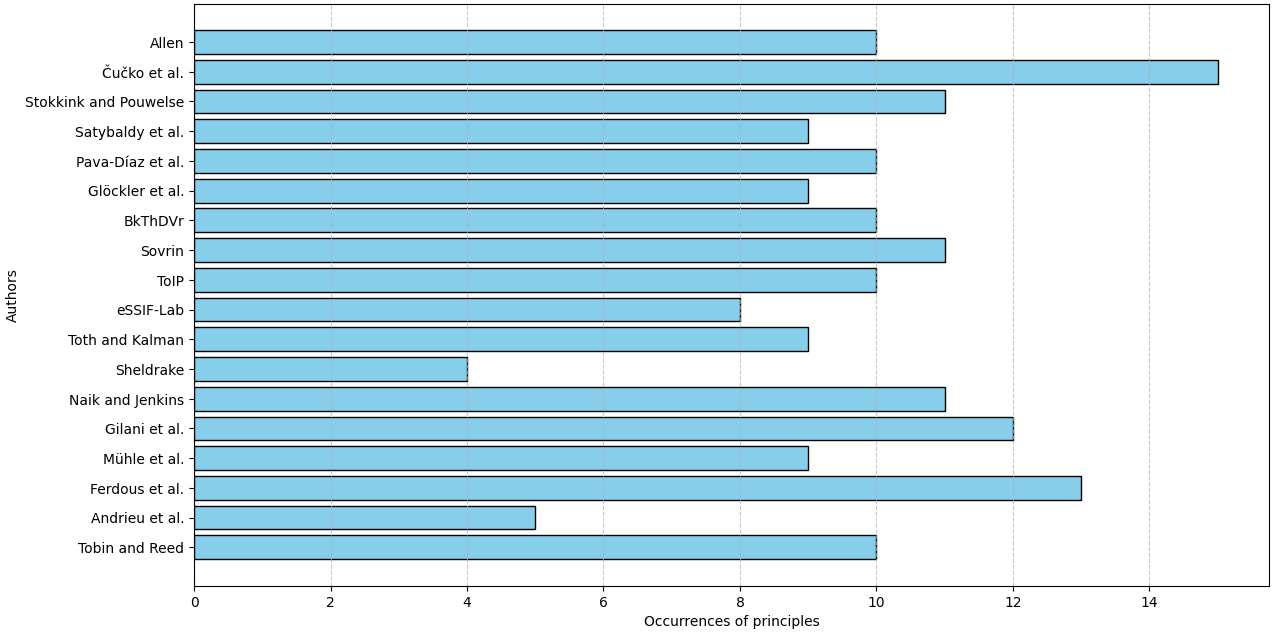
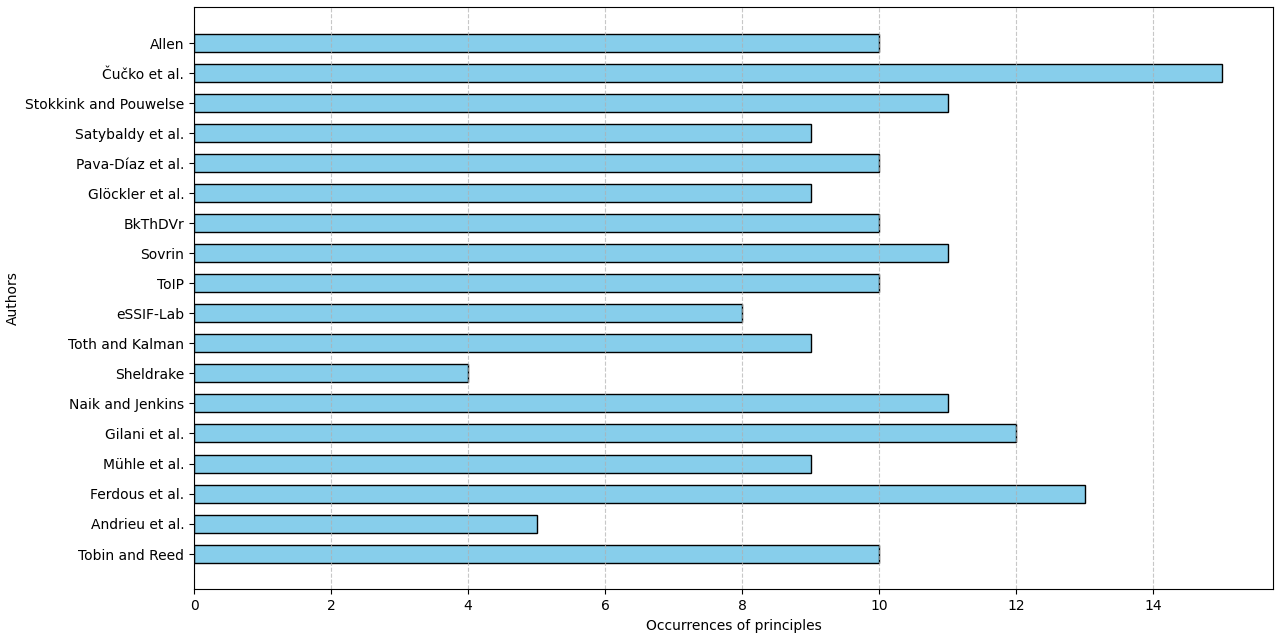
.

diff --git a/definition/program/recording_of_principles/Occurrences_principles.py b/definition/program/recording_of_principles/Occurrences_principles.py
@@ -27,7 +27,7 @@ dati = np.array([
 sum_values = np.sum(dati[::-1], axis=1)
 
 plt.figure(figsize=(10, 6))
-bars = plt.barh(range(len(autori)), sum_values, color='skyblue', edgecolor="black")
+bars = plt.barh(range(len(autori)), sum_values, color='skyblue', edgecolor="black", height=0.6)
 plt.xlabel("Occurrences of principles")
 plt.ylabel("Authors")
 plt.title("")

diff --git a/definition/Definition.md b/definition/Definition.md
@@ -85,28 +85,28 @@ The merging process has collapsed some of the principles naming together and shr
 
 ### 1.3.3 Selection
 
-The chart in Figure 3 illustrates the frequency of citation for different principles across the 18 authors, distinguishing between *Allen Principles* (in blue) and *Extending Principles* (in yellow). The *Allen Principles* show a significantly higher occurrence, indicating a strong foundation in existing literature, maybe based on the fact that those principles have been around longer. In contrast, the *Extending Principles* appear less frequently; for example, 19 out of the 24 extending principles, were cited by fewer than five authors. The analysis suggests that while core principles remain dominant, emerging principles contribute to the evolving discourse in the field.
+The chart in Figure 3 illustrates the frequency of citation for the 34 principles across the studies that we have considered, distinguishing between *Allen Principles* (in blue) and *Extending Principles* (in yellow). The x-axis lists the principles, while the y-axis represents their frequency of occurrence. The *Allen Principles*, such as "Existence and Representation," "Ownership and Control," "Transparency," and "Interoperability, show a significantly higher occurrence, indicating a strong foundation in existing literature, maybe based on the fact that those principles have been around for longer. In contrast, the *Extending Principles*, including "Cost," "Scalable," "Trust," and "Verifiability and Authenticity," show greater variability; for example, 19 out of the 24 extending principles, were cited by fewer than five authors. The analysis suggests the centrality of the Allen Principles which remain dominant, while emerging principles contribute to the evolving discourse in the field.
 
 ![Principles selection](/definition/images/principles_selection/Principles_selection.png)
 *Figure 3: The number of citations per principle across the 18 authors.*
 
-The average value of citation occurrences is slightly above 25%, where we placed a red threshold line as a reference for comparison. We used this finding to extract a subset of principles for SSI; namely, we selected principles cited by at least the 25% of the authors. This heuristic of 25% is a typified strategy that aids in making decisions efficiently by relying on practical rules.[^heuristic] Thus, the final list includes principles that surpass the red threshold in Figure 3. The final list is reported in [Table 3](https://cristianlepore.github.io/Self-Sovereign-Identity/definition/tables/principles_semplification/Principles_semplification1.html), and accounts for 15 principles - 10 from Allen plus five extending principles. Note that the merging process has collapsed some of their names within the same cell, and we consider it for future analysis with charts.
+The average value of citation occurrences is slightly above 25%, where we placed a red threshold line as a reference for comparison. We used this threashold line to extract a subset of principles for SSI; namely, we selected principles cited by at least the 25% of the authors. This heuristic of 25% is a typified strategy that aids in making decisions efficiently by relying on practical rules.[^heuristic] Thus, the final list includes principles that surpass the red threshold in Figure 3. The final list is reported in [Table 3](https://cristianlepore.github.io/Self-Sovereign-Identity/definition/tables/principles_semplification/Principles_semplification1.html), and accounts for 15 principles - 10 from Allen plus five extending principles. Note that the merging process has collapsed some of the original names within the same cell.
 
-[Click to view the table 3.](https://cristianlepore.github.io/Self-Sovereign-Identity/definition/tables/principles_semplification/Principles_semplification1.html) *Our final list of properties and their namings.*
+[Click to view the table 3.](https://cristianlepore.github.io/Self-Sovereign-Identity/definition/tables/principles_semplification/Principles_semplification1.html) *The final list of properties and their namings.*
 
-A shorten list of principles opens for a comparative analysis of the distribution of principles and publications with respect to our shortened list of principles. For example, Figure 5 visualizes the distribution of principle adoption across various studies. It presents the number of principles referenced by authors in their work. For this reason, the horizontal bars represent the occurrences of principles attributed to each author, showing variations in the emphasis placed on specific principles across different studies. Allen and other authors exhibit higher citation counts, possibly indicating their significant contribution to the discussion on principles.[^allen][^cucko][^ferdous] Conversely, other authors reference fewer principles, suggesting either a more selective approach or a narrower research scope.[^sheldrake][^andrieu]
+A shortened list of principles allows for a comparative analysis of their distribution in publications. For example, Figure 5 highlights the number of principles addressed by various authors. The x-axis indicates the frequency of principles covered, while the y-axis lists the authors. Notably, "Čućko et al."[^cucko] leads with the highest number of occurrences, showcasing extensive engagement with SSI principles. Other contributors, such as Allen, Sovrin, and eSSIF-Lab, demonstrate significant but slightly lower levels of coverage.[^allen][^sovrin][^essif] Conversely, other authors reference fewer principles, suggesting either a more selective approach or a narrower research scope.[^sheldrake][^andrieu] Overall, the chart underscores the varying levels of emphasis placed by different authors, with some offering comprehensive contributions while others take a more focused approach.
 
 ![Occurrences of principles](/definition/images/principles_selection/Occurrences_principles.png)
 *Figure 4: The number of principles by author.*
 
-The information conveyed by the previous charts (Figure 3 and Figure 4) are detailed from the chart in Figure 5, which provides a comparative overview of how different contributors emphasize specific principles. Differently from the previous charts, this chart gives insights on the alignment of various authors with principles. The rows represent different authors or studies, while the columns represent specific principles, such as transparency, interoperability, and decentralization. Blue dots indicate which principles are addressed by each author.
+The information presented in the previous charts (Figure 3 and Figure 4) is further detailed in Figure 5, which provides an overview of the distribution of principles across studies. Unlike the earlier charts, this one offers insights into the alignment of various authors with these principles. The rows represent different authors or studies, while the columns correspond to specific principles such as transparency, interoperability, and decentralization. Blue dots indicate which principles each author addresses.
 
-What is possible to highlights in this chart is the clustering of dots around principles like transparency, interoperability, and privacy. These are clearly seen as essential by most contributors. On the other hand, principles like cost, decentralization, and usability do not have as much attention, suggesting these are less emphasized or considered secondary by many.
+A key highlight of this chart is the clustering of dots around principles like transparency, interoperability, and privacy, which most contributors clearly consider essential. In contrast, principles such as cost, decentralization, and usability receive less attention, suggesting they are either less emphasized or considered secondary by many.
 
-Some authors, like Sovrin and eSSIF-Lab, address a wide range of principles, showing a comprehensive approach. Others focus more narrowly, highlighting specific areas of interest. This chart shows not just the priorities of individual authors but also the broader trends in the SSI field, helping us see what matters most as this framework evolves.
+Some authors address a broad range of principles, demonstrating a comprehensive approach, while others focus more narrowly, emphasizing specific areas of interest. This chart not only reveals the priorities of individual authors but also illustrates broader trends in the SSI field, offering insights into what is most valued as this framework continues to evolve.
 
 ![Category frequency](/definition/images/recording_of_principles/Bubble.png)
-*Figure 5: A comparative overview of how different contributors emphasize specific principles.*
+*Figure 5: A comparative overview of the distribution of principles and authors.*
 
 ### 1.3.4 Clustering
 
